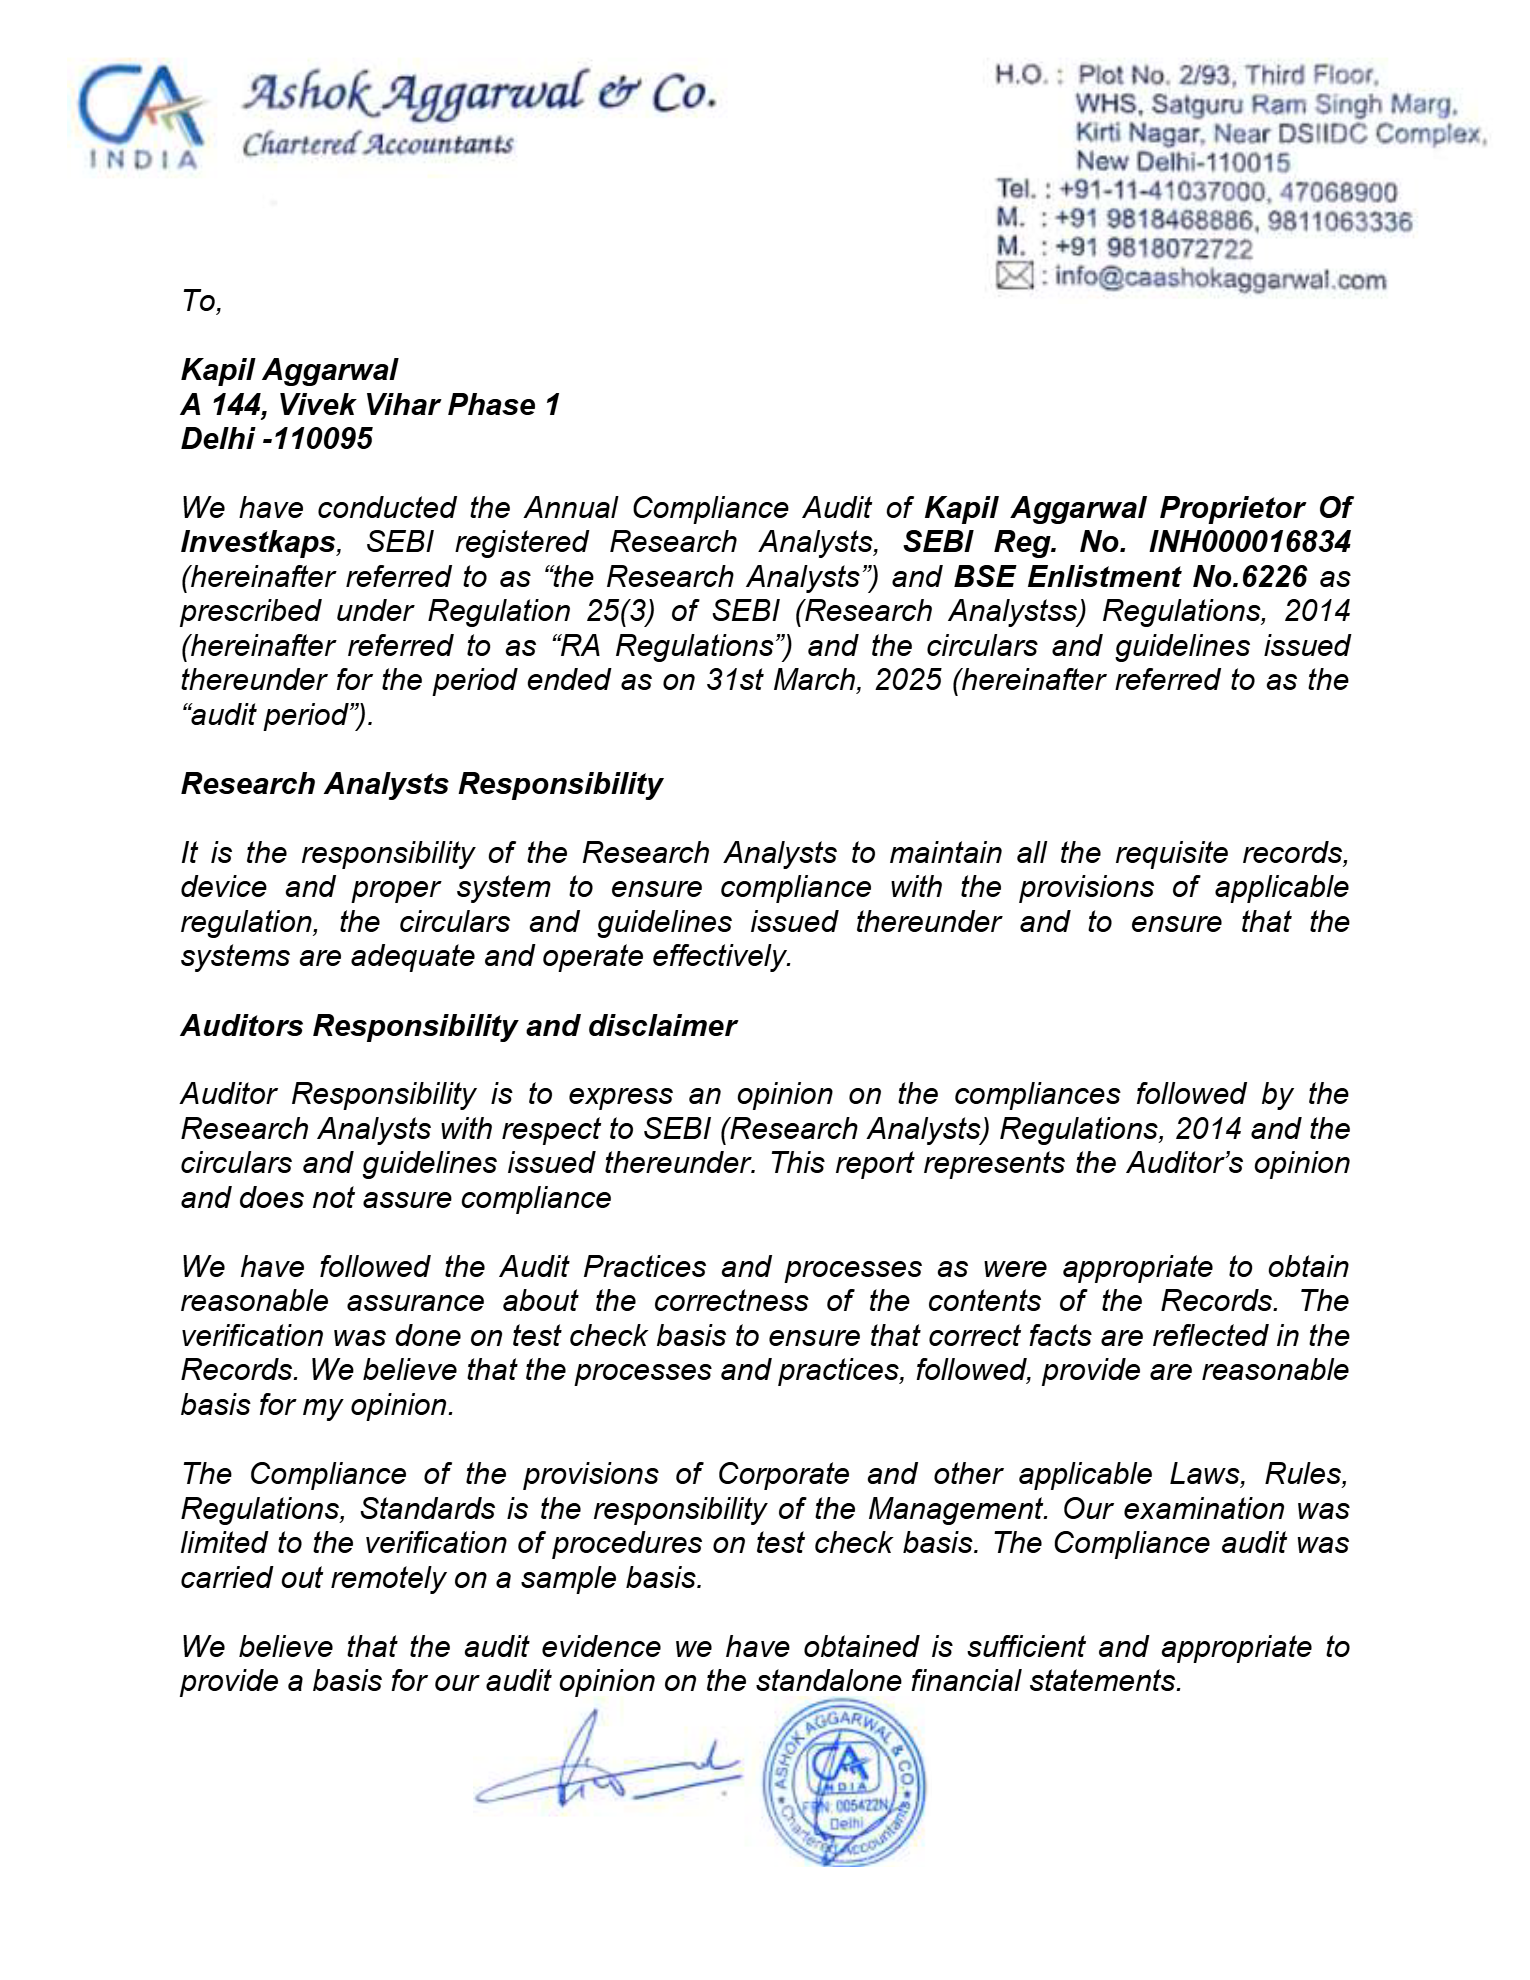
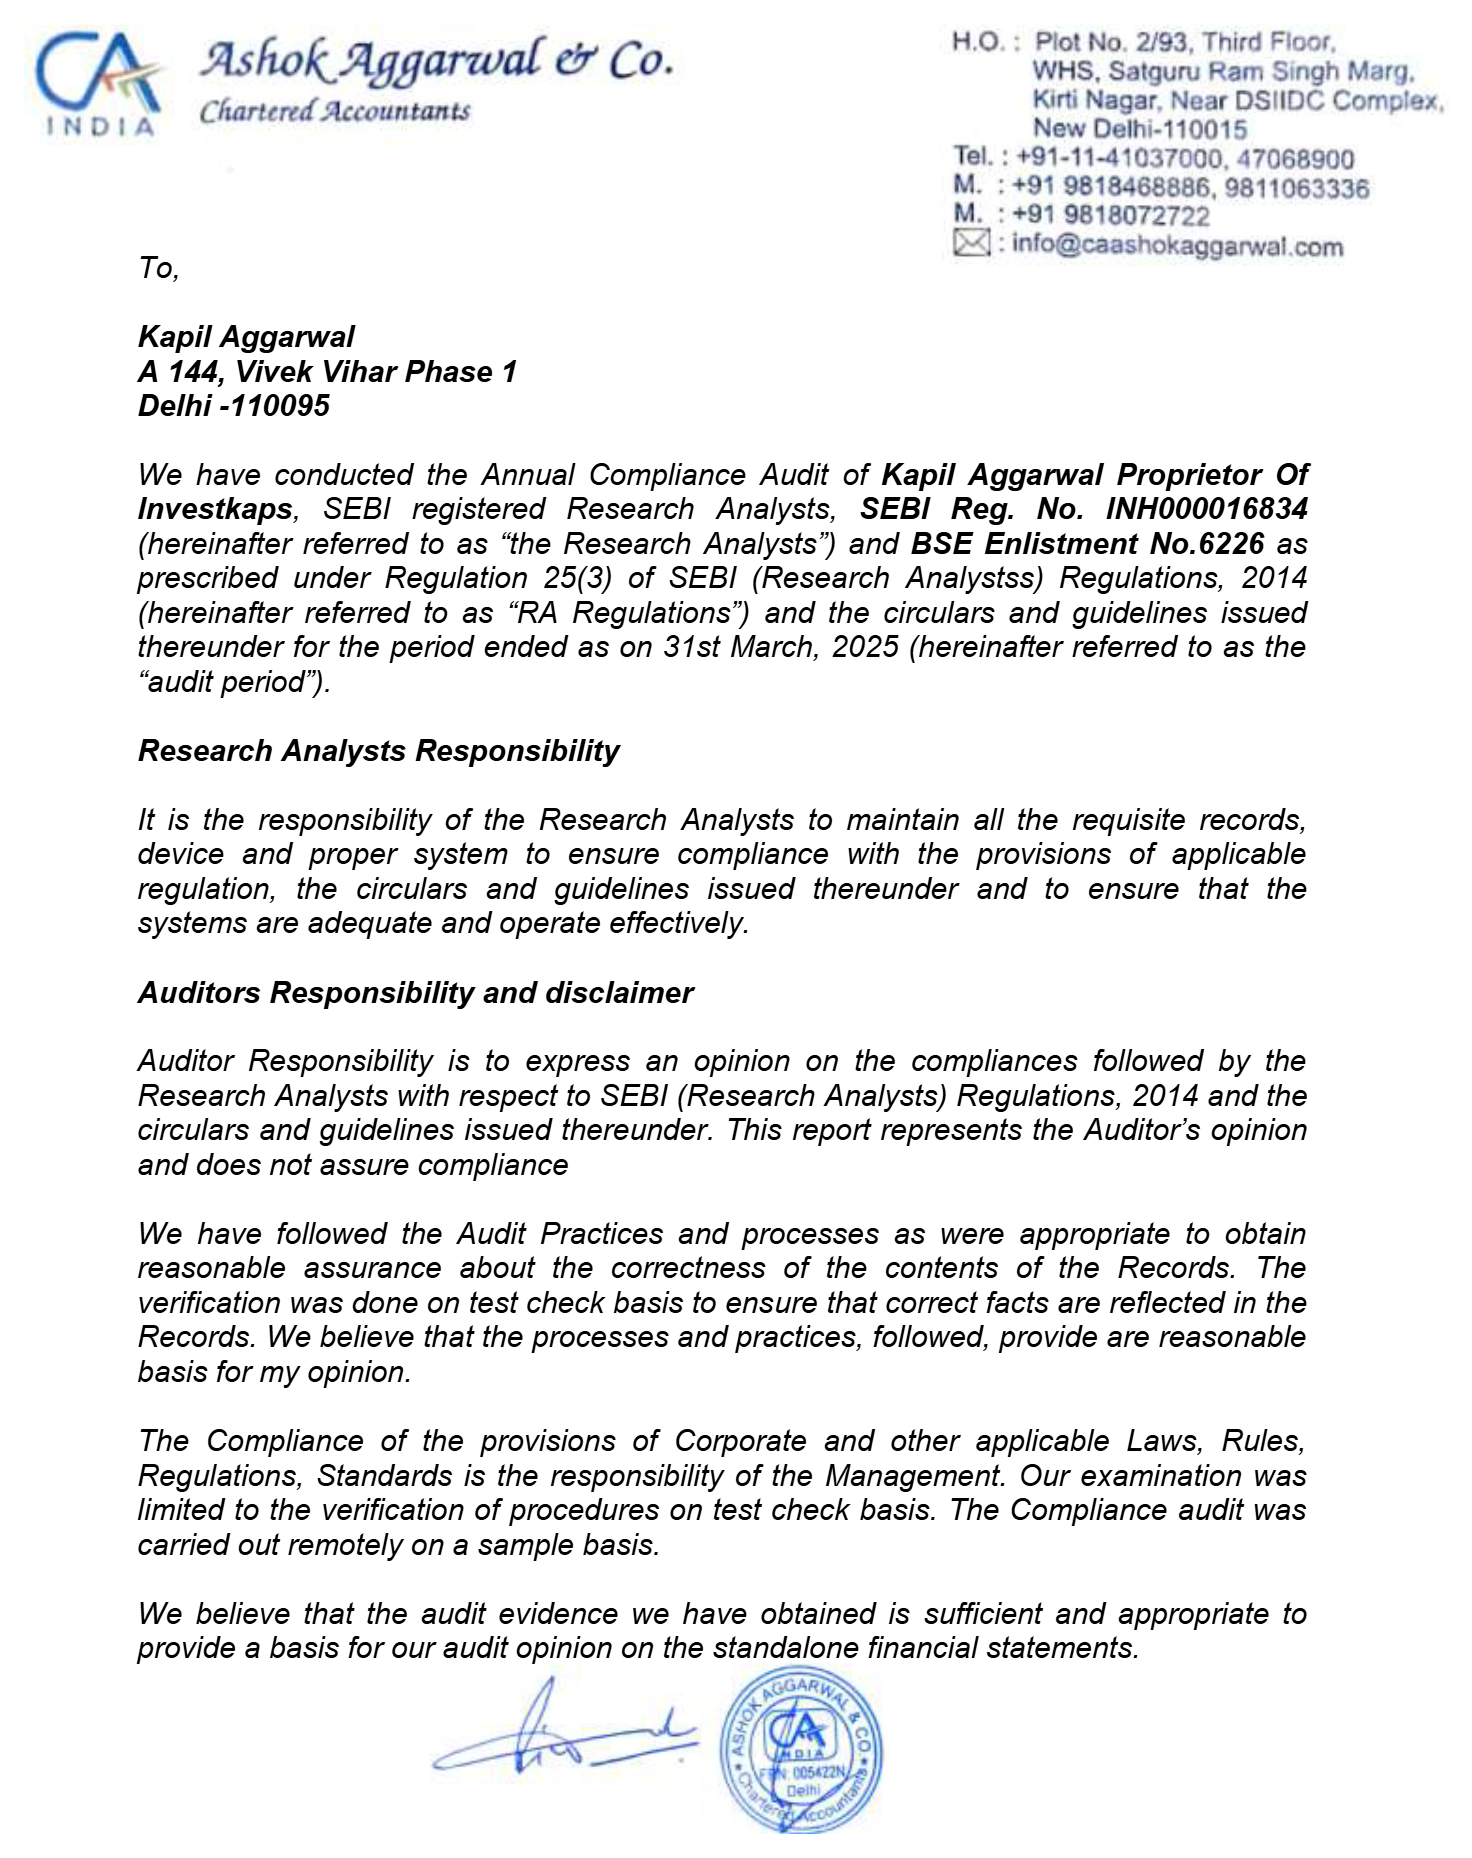
fixed audit page

Changed region(s): [[0.0938, 0.1249, 0.9062, 0.9989], [0.625, 0.0, 0.9688, 0.1561], [0.0, 0.0, 0.4688, 0.0936]]

diff --git a/frontend/src/pages/AuditReport2/AuditReport2.jsx b/frontend/src/pages/AuditReport2/AuditReport2.jsx
@@ -1,43 +1,127 @@
-import React from 'react';
+import React, { useState, useEffect, useCallback, useRef } from 'react';
 import './AuditReport2.css';
 
+const auditPages = [
+  { src: '/audit.png', label: "Auditor's Report" },
+  { src: '/audit2.png', label: "Auditor's Opinion" }
+];
+
+const SWIPE_THRESHOLD = 50;
+
 const AuditReport2 = () => {
-  const pdfUrl = encodeURI('/Audit Report 24-25_investkaps.pdf');
+  const [activeIndex, setActiveIndex] = useState(0);
+  const touchStart = useRef(null);
+
+  const goTo = useCallback((index) => {
+    const total = auditPages.length;
+    setActiveIndex(((index % total) + total) % total);
+  }, []);
+
+  useEffect(() => {
+    const handleKeyDown = (event) => {
+      if (event.key === 'ArrowLeft') {
+        setActiveIndex((prev) => (prev - 1 + auditPages.length) % auditPages.length);
+      } else if (event.key === 'ArrowRight') {
+        setActiveIndex((prev) => (prev + 1) % auditPages.length);
+      }
+    };
+
+    window.addEventListener('keydown', handleKeyDown);
+    return () => window.removeEventListener('keydown', handleKeyDown);
+  }, []);
+
+  const handleTouchStart = (event) => {
+    const touch = event.changedTouches[0];
+    touchStart.current = { x: touch.clientX, y: touch.clientY };
+  };
+
+  const handleTouchEnd = (event) => {
+    if (!touchStart.current) return;
+
+    const touch = event.changedTouches[0];
+    const deltaX = touch.clientX - touchStart.current.x;
+    const deltaY = touch.clientY - touchStart.current.y;
+    touchStart.current = null;
+
+    // Ignore vertical gestures so the page can still be scrolled.
+    if (Math.abs(deltaX) < SWIPE_THRESHOLD || Math.abs(deltaX) < Math.abs(deltaY)) return;
+
+    goTo(activeIndex + (deltaX < 0 ? 1 : -1));
+  };
+
+  const activePage = auditPages[activeIndex];
 
   return (
     <div className="audit-report-page">
       <div className="audit-report-container">
-        {/* Header */}
         <div className="page-header">
           <h1 className="page-title">Audit Report FY24-25</h1>
+          <p className="page-subtitle">{activePage.label}</p>
         </div>
 
-        {/* PDF Viewer Section */}
-        <section className="audit-pdf-section">
-          <div className="pdf-viewer-container">
-            <iframe
-              src={pdfUrl}
-              title="InvestKaps Audit Report FY24-25"
-              className="pdf-viewer"
-              width="100%"
-              height="800px"
+        <section className="audit-carousel">
+          <div
+            className="audit-image-card"
+            onTouchStart={handleTouchStart}
+            onTouchEnd={handleTouchEnd}
+          >
+            <img
+              key={activePage.src}
+              src={activePage.src}
+              alt={`InvestKaps audit report - ${activePage.label}`}
+              className="audit-image"
             />
           </div>
-          <div className="pdf-download-section">
+
+          <div className="audit-carousel-controls">
+            <div className="audit-nav-row">
+              <button
+                type="button"
+                className="audit-nav"
+                onClick={() => goTo(activeIndex - 1)}
+                aria-label="Previous page"
+              >
+                <svg viewBox="0 0 24 24" aria-hidden="true">
+                  <polyline points="15 18 9 12 15 6" />
+                </svg>
+              </button>
+
+              <div className="audit-dots">
+                {auditPages.map((page, index) => (
+                  <button
+                    type="button"
+                    key={page.src}
+                    className={`audit-dot ${index === activeIndex ? 'active' : ''}`}
+                    onClick={() => goTo(index)}
+                    aria-label={`Go to ${page.label}`}
+                    aria-current={index === activeIndex}
+                  />
+                ))}
+              </div>
+
+              <button
+                type="button"
+                className="audit-nav"
+                onClick={() => goTo(activeIndex + 1)}
+                aria-label="Next page"
+              >
+                <svg viewBox="0 0 24 24" aria-hidden="true">
+                  <polyline points="9 18 15 12 9 6" />
+                </svg>
+              </button>
+            </div>
+
+            <span className="audit-counter">
+              Page {activeIndex + 1} of {auditPages.length}
+            </span>
+
             <a
-              href={pdfUrl}
+              href={activePage.src}
               target="_blank"
               rel="noopener noreferrer"
-              className="download-button"
+              className="audit-fullsize-link"
             >
-              Open Audit Report
-            </a>
-            <a
-              href={pdfUrl}
-              download="InvestKaps-Audit-Report-FY24-25.pdf"
-              className="download-button secondary-download-button"
-            >
-              Download PDF
+              Open full size
             </a>
           </div>
         </section>

diff --git a/frontend/src/pages/AuditReport2/AuditReport2.css b/frontend/src/pages/AuditReport2/AuditReport2.css
@@ -13,7 +13,7 @@
 /* Page Header */
 .page-header {
   text-align: center;
-  margin-bottom: 3rem;
+  margin-bottom: 2.5rem;
 }
 
 .page-title {
@@ -28,57 +28,150 @@
   color: #64748b;
 }
 
-.audit-pdf-section {
+/* Carousel */
+.audit-carousel {
   margin-bottom: 2rem;
+  display: flex;
+  flex-direction: column;
+  align-items: center;
 }
 
-.pdf-viewer-container {
+.audit-image-card {
   background: white;
   border-radius: 12px;
-  padding: 3rem;
-  box-shadow: 0 4px 6px rgba(0, 0, 0, 0.07);
+  overflow: hidden;
+  box-shadow: 0 10px 30px rgba(15, 23, 42, 0.12);
+  width: 100%;
+  max-width: 640px;
+  /* Allow vertical scrolling while horizontal swipes drive the carousel. */
+  touch-action: pan-y;
 }
 
-.pdf-viewer {
-  border: none;
-  border-radius: 8px;
-  min-height: 800px;
+.audit-image {
+  display: block;
+  width: 100%;
+  height: auto;
+  animation: audit-fade-in 0.35s ease;
 }
 
-.pdf-download-section {
+@keyframes audit-fade-in {
+  from {
+    opacity: 0;
+    transform: translateY(6px);
+  }
+  to {
+    opacity: 1;
+    transform: none;
+  }
+}
+
+.audit-carousel-controls {
   display: flex;
-  justify-content: center;
-  flex-wrap: wrap;
-  gap: 1rem;
+  flex-direction: column;
+  align-items: center;
+  gap: 0.75rem;
   margin-top: 1.5rem;
 }
 
-.download-button.secondary-download-button {
-  background: linear-gradient(135deg, #0f172a 0%, #334155 100%);
-  box-shadow: 0 4px 12px rgba(15, 23, 42, 0.2);
+.audit-nav-row {
+  display: flex;
+  align-items: center;
+  gap: 1.25rem;
 }
 
-.cta-box h4 {
-  font-size: 1.25rem;
-  font-weight: 700;
+.audit-nav {
+  flex-shrink: 0;
+  width: 44px;
+  height: 44px;
+  border: none;
+  border-radius: 50%;
+  background: white;
   color: #1a202c;
-  margin-bottom: 0.75rem;
+  box-shadow: 0 4px 12px rgba(15, 23, 42, 0.15);
+  cursor: pointer;
+  display: flex;
+  align-items: center;
+  justify-content: center;
+  transition: background 0.2s ease, transform 0.2s ease;
+  -webkit-tap-highlight-color: transparent;
 }
 
-.cta-box p {
-  font-size: 1rem;
-  color: #4a5568;
-  margin: 0;
+.audit-nav:hover {
+  background: #0f172a;
+  color: white;
+  transform: scale(1.06);
+}
+
+.audit-nav:active {
+  transform: scale(0.94);
+}
+
+.audit-nav svg {
+  width: 22px;
+  height: 22px;
+  fill: none;
+  stroke: currentColor;
+  stroke-width: 2.5;
+  stroke-linecap: round;
+  stroke-linejoin: round;
+}
+
+.audit-dots {
+  display: flex;
+  gap: 0.5rem;
+}
+
+.audit-dot {
+  width: 10px;
+  height: 10px;
+  padding: 0;
+  border: none;
+  border-radius: 50%;
+  background: rgba(15, 23, 42, 0.25);
+  cursor: pointer;
+  transition: background 0.2s ease, transform 0.2s ease;
+  -webkit-tap-highlight-color: transparent;
+}
+
+.audit-dot:hover {
+  background: rgba(15, 23, 42, 0.45);
+}
+
+.audit-dot.active {
+  background: #0f172a;
+  transform: scale(1.25);
+}
+
+.audit-counter {
+  font-size: 0.875rem;
+  color: #64748b;
+}
+
+.audit-fullsize-link {
+  font-size: 0.875rem;
+  font-weight: 600;
+  color: #0f172a;
+  text-decoration: none;
+  border-bottom: 1px solid rgba(15, 23, 42, 0.3);
+  padding-bottom: 1px;
+}
+
+.audit-fullsize-link:hover {
+  border-bottom-color: #0f172a;
 }
 
 /* Responsive Design */
 @media screen and (max-width: 768px) {
   .audit-report-page {
-    padding: 100px 0 40px;
+    padding: 90px 0 40px;
   }
 
   .audit-report-container {
     padding: 0 1rem;
+  }
+
+  .page-header {
+    margin-bottom: 1.5rem;
   }
 
   .page-title {
@@ -89,17 +182,35 @@
     font-size: 1rem;
   }
 
-  .pdf-viewer-container {
-    padding: 1.5rem;
+  .audit-image-card {
+    border-radius: 8px;
+    box-shadow: 0 6px 18px rgba(15, 23, 42, 0.14);
+  }
+
+  .audit-carousel-controls {
+    margin-top: 1.25rem;
+    gap: 0.625rem;
+  }
+
+  .audit-nav-row {
+    gap: 1.5rem;
   }
 }
 
 @media screen and (max-width: 480px) {
-  .page-title {
-    font-size: 1.75rem;
+  .audit-report-page {
+    padding: 80px 0 32px;
   }
 
-  .pdf-viewer-container {
-    padding: 1rem;
+  .audit-report-container {
+    padding: 0 0.75rem;
+  }
+
+  .page-title {
+    font-size: 1.625rem;
+  }
+
+  .page-subtitle {
+    font-size: 0.9375rem;
   }
 }

diff --git a/frontend/dev-dist/sw.js b/frontend/dev-dist/sw.js
@@ -82,7 +82,7 @@ define(['./workbox-137dedbd'], (function (workbox) { 'use strict';
     "revision": "3ca0b8505b4bec776b69afdba2768812"
   }, {
     "url": "index.html",
-    "revision": "0.umbpotgqup8"
+    "revision": "0.r275v9r7lag"
   }], {});
   workbox.cleanupOutdatedCaches();
   workbox.registerRoute(new workbox.NavigationRoute(workbox.createHandlerBoundToURL("index.html"), {
